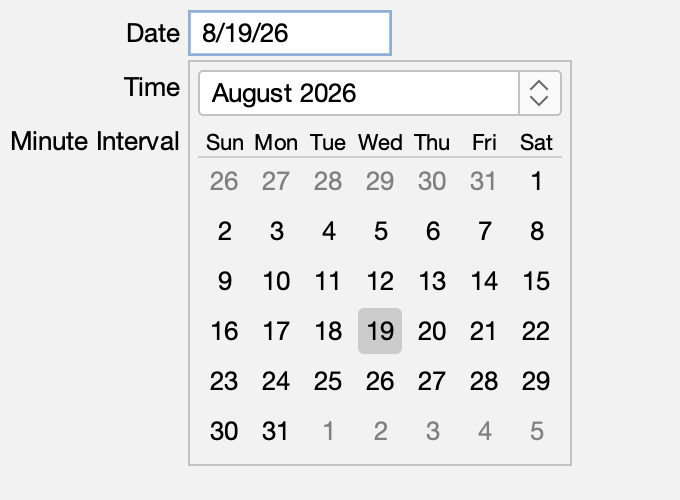
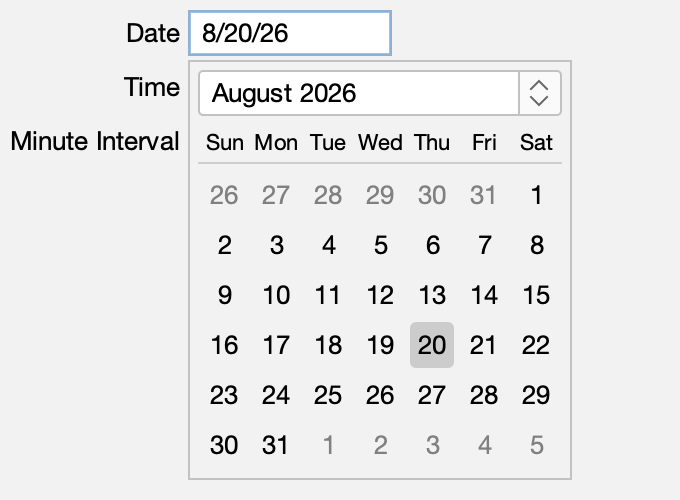
Update DatePicker.

diff --git a/sierra/src/main/java/org/httprpc/sierra/DatePicker.java b/sierra/src/main/java/org/httprpc/sierra/DatePicker.java
@@ -75,7 +75,7 @@ public class DatePicker extends TemporalPicker {
         DateButton[][] dateButtons;
 
         CalendarPanel() {
-            setSpacing(6);
+            setSpacing(2);
 
             var zoneId = ZoneId.systemDefault();
 
@@ -99,20 +99,9 @@ public class DatePicker extends TemporalPicker {
 
             add(monthSpinner);
 
-            add(createDateButtonPanel());
+            add(new Spacer(2));
 
-            setBorder(new CompoundBorder(UIManager.getBorder("ScrollPane.border"), new EmptyBorder(4, 4, 4, 4)));
-
-            updateMonth();
-        }
-
-        TablePanel createDateButtonPanel() {
-            var dateButtonPanel = new TablePanel();
-
-            dateButtonPanel.setColumnCount(7);
-
-            dateButtonPanel.setHorizontalSpacing(0);
-            dateButtonPanel.setVerticalSpacing(0);
+            var dayOfWeekRow = new RowPanel();
 
             var locale = Locale.getDefault();
 
@@ -124,12 +113,21 @@ public class DatePicker extends TemporalPicker {
                 label.setHorizontalAlignment(SwingConstants.CENTER);
                 label.putClientProperty("FlatLaf.styleClass", "small");
 
-                dateButtonPanel.add(label);
+                dayOfWeekRow.add(label, 1.0);
 
                 dayOfWeek = DayOfWeek.of(dayOfWeek.getValue() % 7 + 1);
             }
 
-            dateButtonPanel.add(new JSeparator(), (Object)7);
+            add(dayOfWeekRow);
+
+            add(new JSeparator());
+
+            var dateButtonPanel = new TablePanel();
+
+            dateButtonPanel.setColumnCount(7);
+
+            dateButtonPanel.setHorizontalSpacing(0);
+            dateButtonPanel.setVerticalSpacing(0);
 
             dateButtons = new DateButton[6][];
 
@@ -145,7 +143,11 @@ public class DatePicker extends TemporalPicker {
                 }
             }
 
-            return dateButtonPanel;
+            add(dateButtonPanel);
+
+            setBorder(new CompoundBorder(UIManager.getBorder("ScrollPane.border"), new EmptyBorder(4, 4, 4, 4)));
+
+            updateMonth();
         }
 
         void updateMonth() {
